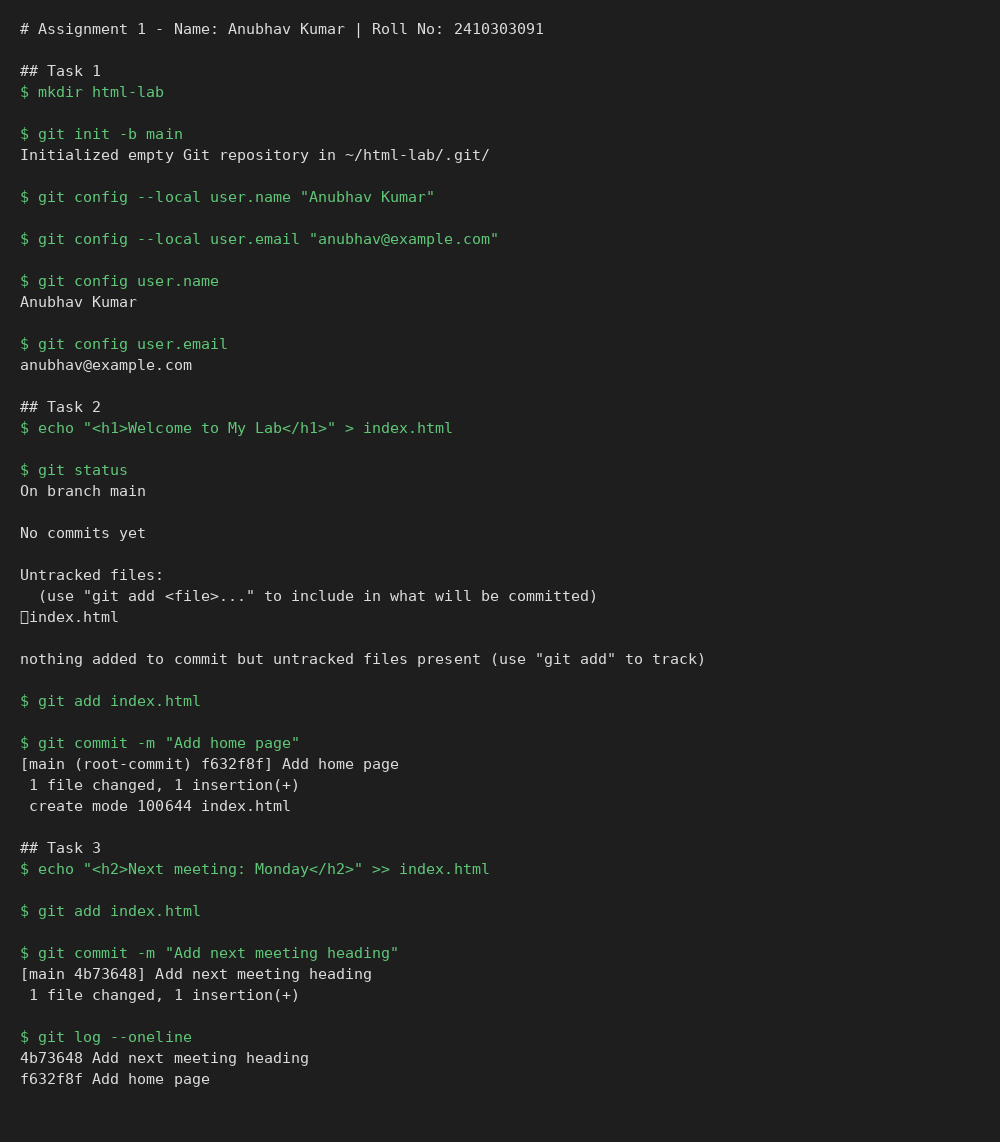
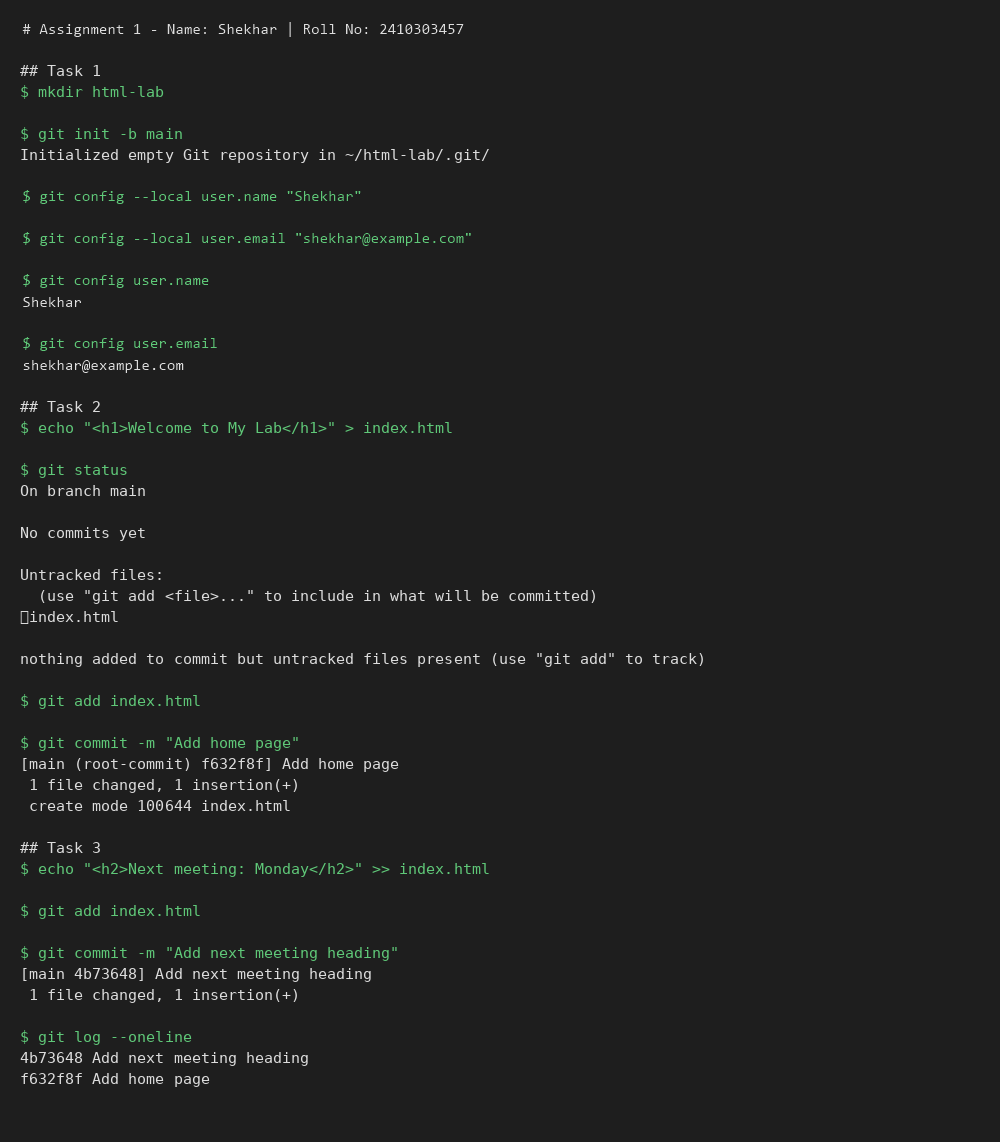
Update Lab1 name to Shekhar

diff --git a/Lab1/README.md b/Lab1/README.md
@@ -1,7 +1,7 @@
 # Lab 1: Git: Setting Up a Repository and Making Commits
 
 **Name:** Shekhar
-**Roll No:** 2410303457 
+**Roll No:** 2410303457
 **Course:** BCS554 - HTML & CSS Development Lab
 
 ## Aim
@@ -12,7 +12,7 @@ Create a repository, set the user details and make commits.
 
 ## Commands and output
 ```
-# Assignment 1 - Name: Anubhav Kumar | Roll No: 2410303091
+# Assignment 1 - Name: Shekhar | Roll No: 2410303457
 
 ## Task 1
 $ mkdir html-lab
@@ -20,15 +20,15 @@ $ mkdir html-lab
 $ git init -b main
 Initialized empty Git repository in ~/html-lab/.git/
 
-$ git config --local user.name "Anubhav Kumar"
+$ git config --local user.name "Shekhar"
 
-$ git config --local user.email "anubhav@example.com"
+$ git config --local user.email "shekhar@example.com"
 
 $ git config user.name
-Anubhav Kumar
+Shekhar
 
 $ git config user.email
-anubhav@example.com
+shekhar@example.com
 
 ## Task 2
 $ echo "<h1>Welcome to My Lab</h1>" > index.html
